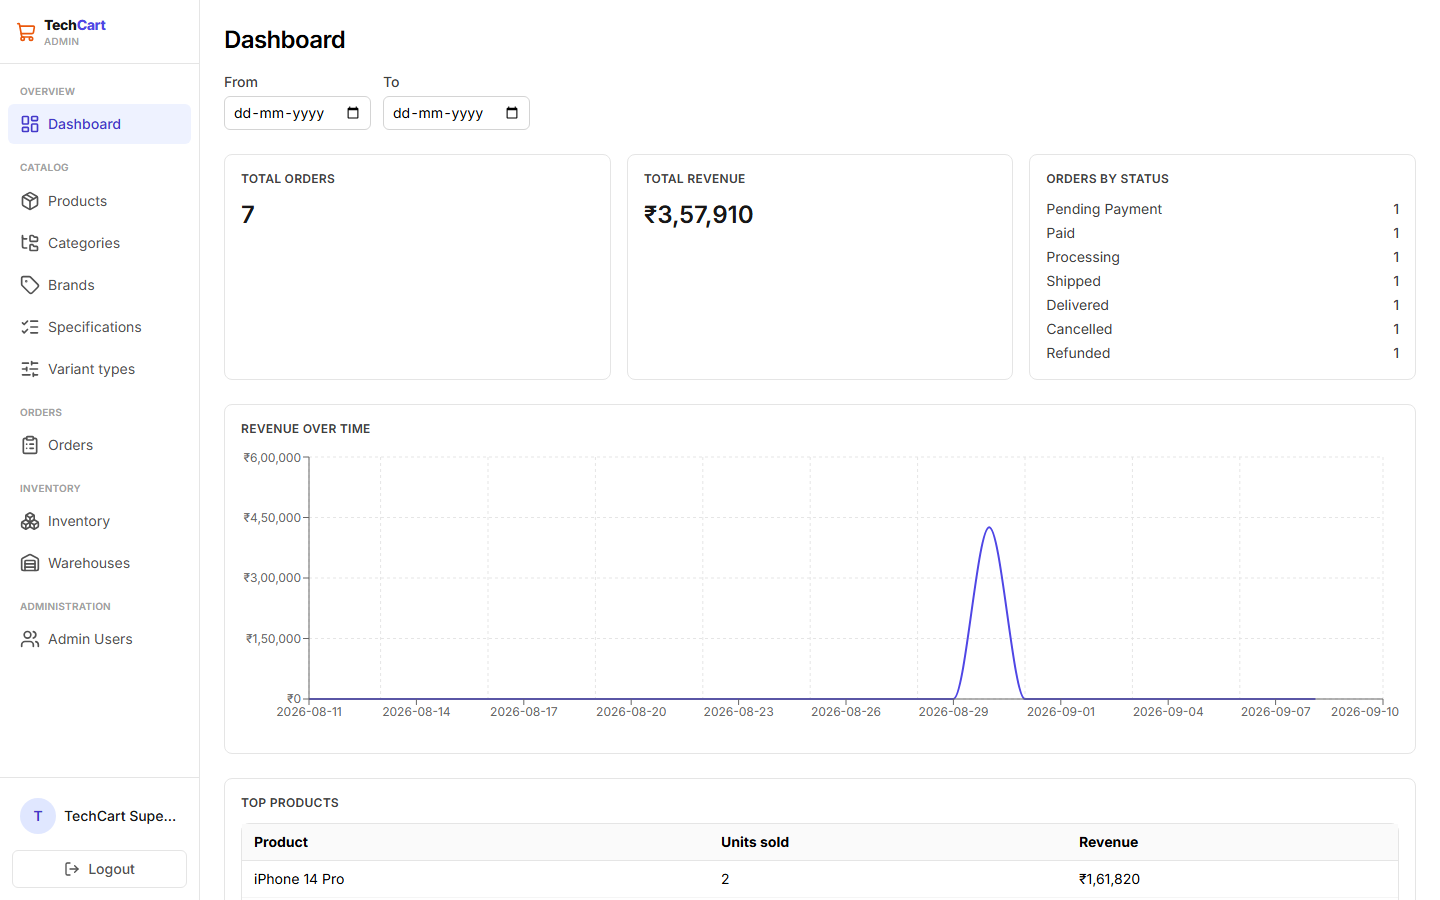
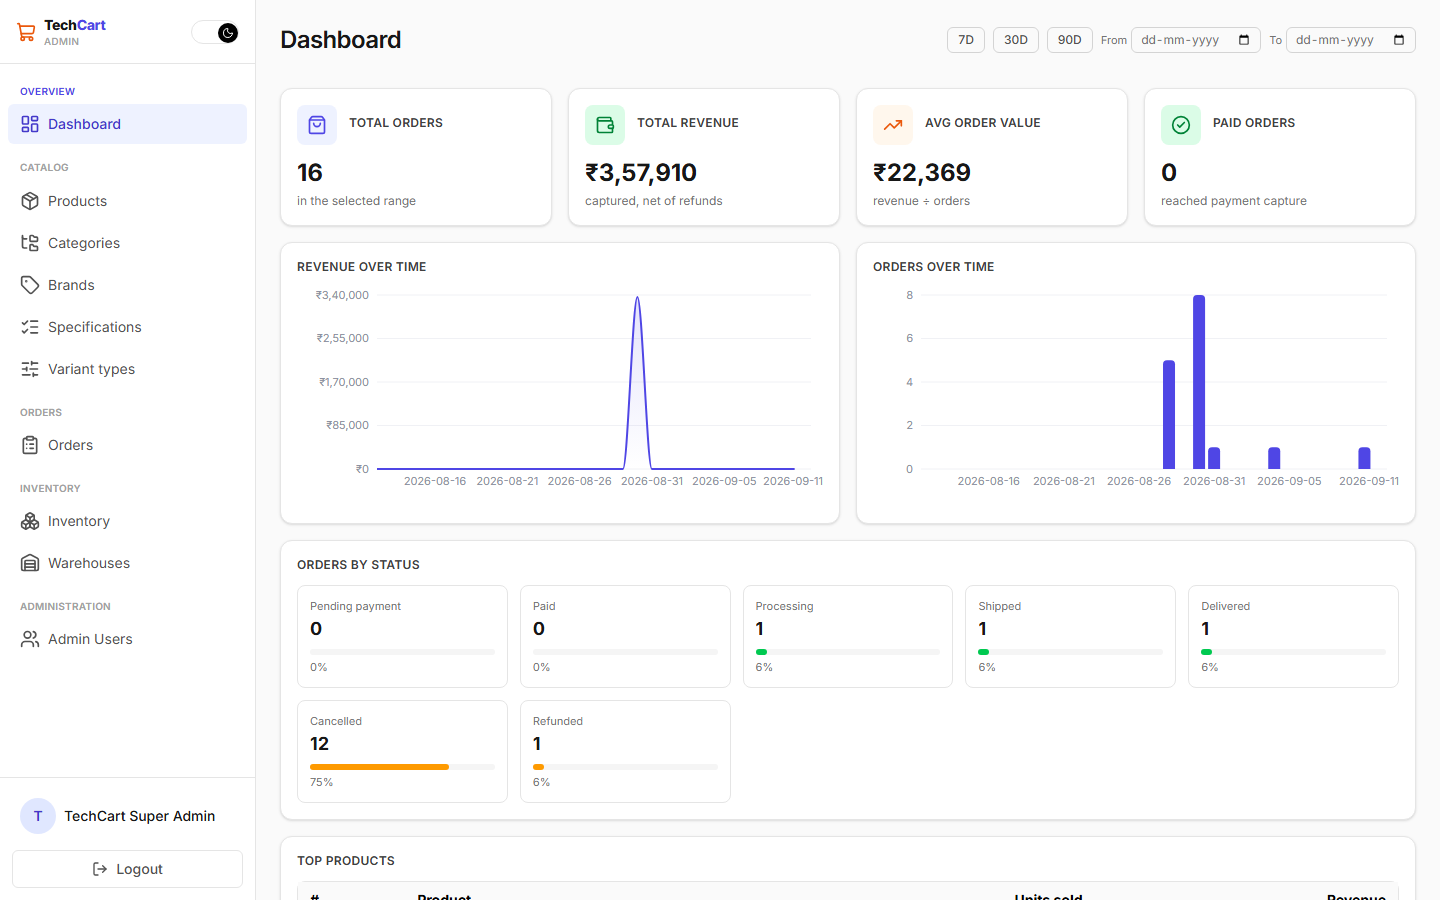
docs: refresh admin sidebar screenshots for dark mode (PR #377)
03-console-layout.png and 04-sidebar-mobile-drawer.png were stale after
PR #377 widened the sidebar and moved the theme toggle into its header
row. Re-shot against the live deployment with a throwaway sign-in +
screenshot script (not committed, procedure recorded in
screenshots/README.md); no capture.mjs change needed since neither shot's
selectors changed.

diff --git a/docs/user-manuals/screenshots/README.md b/docs/user-manuals/screenshots/README.md
@@ -96,6 +96,14 @@ servers.
 
 - **Images** — the local dataset the admin-app screenshots use has grey placeholder
   images. The live storefront (buyer-app screenshots) serves real product images.
+- **Sidebar shots are the one exception to "admin-app = local"** — `03-console-layout.png`
+  and `04-sidebar-mobile-drawer.png` were refreshed against the live deployment
+  (`https://tech-cart-admin-app.vercel.app`) after the dark-mode PR (#377) widened the
+  sidebar and moved the theme toggle into its header row, using the same
+  `admin@techcart.com` / `superAdmin123` super-admin and fixed `123456` OTP. No
+  `capture.mjs` change was needed — a small throwaway script did the sign-in + two
+  shots and was discarded; re-run the same way (sign in, screenshot `/`, open the
+  mobile drawer, screenshot again) if the sidebar chrome changes again.
 - **Razorpay** — `19-checkout-payment.png` shows the real Razorpay Checkout overlay
   (Test Mode) when test keys are configured; without them the step lands on its
   "Retry payment" state instead. Either is a valid screenshot for the manual.
